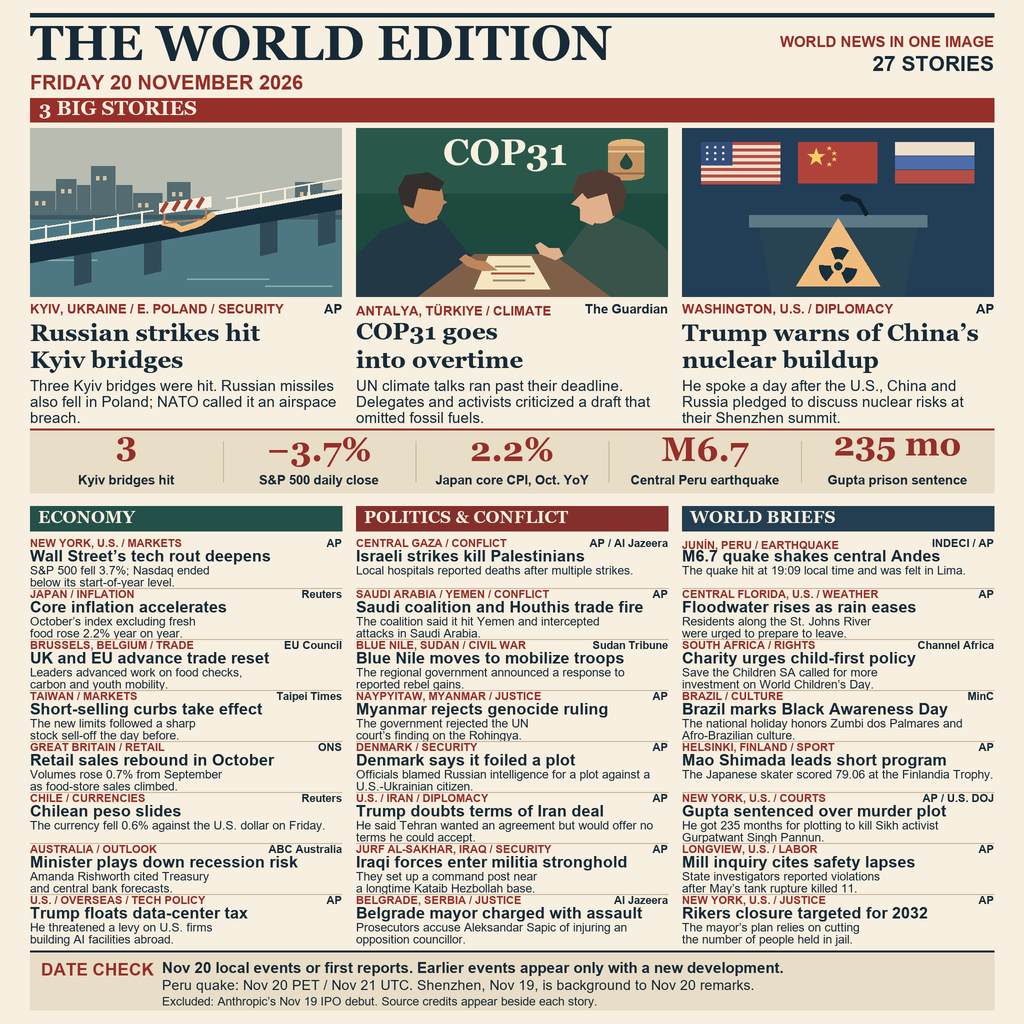
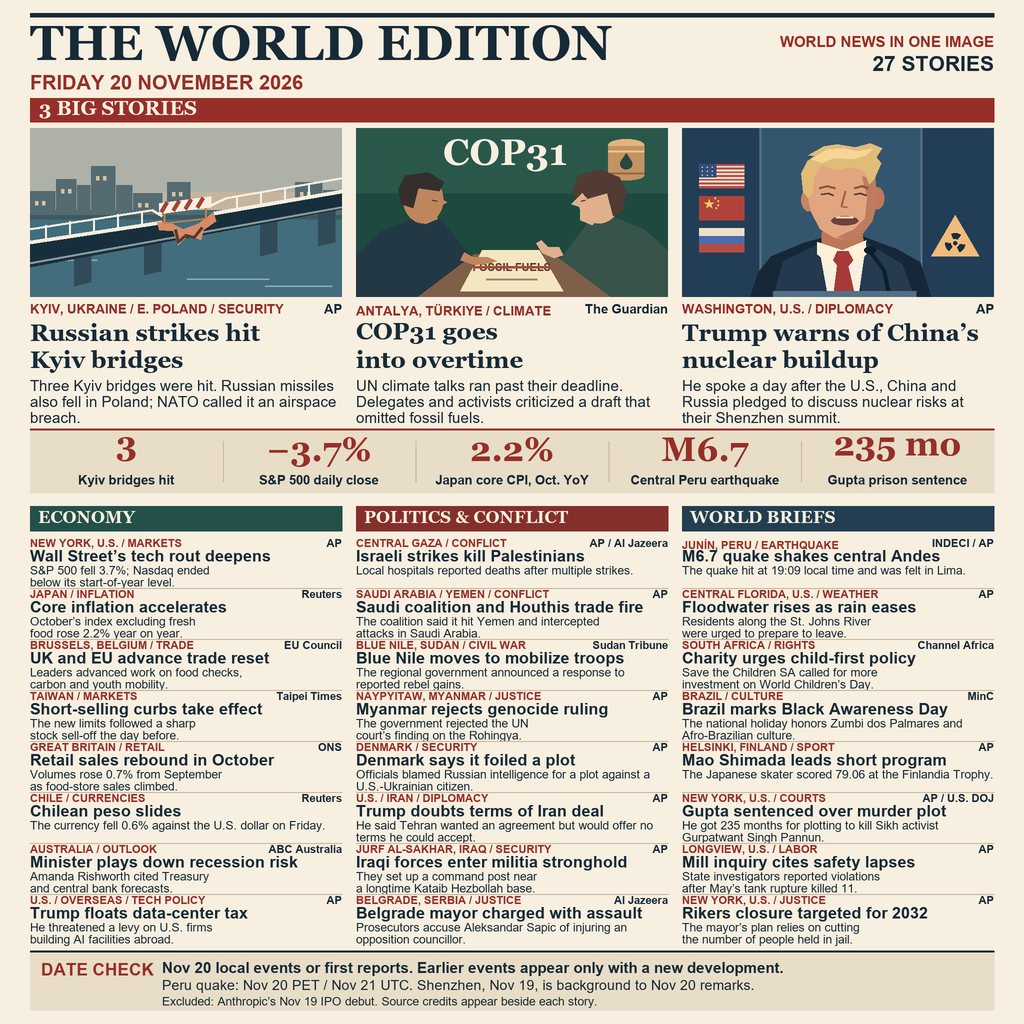
Restore clear subjects to the Ver.5 news artwork

diff --git a/render_v5.py b/render_v5.py
@@ -13,8 +13,9 @@ HONEY = "#f0bc7d"
 
 def bridge_scene(art):
     """An editorial river crossing with damage and a closed lane."""
-    art.rect((0, 0, 312, 169), "#b9bcb1")
-    art.rect((0, 82, 312, 169), "#4d7883")
+    art.rect((0, 0, 312, 169), "#aeb1a7")
+    art.rect((0, 64, 312, 88), "#c5b49e")
+    art.rect((0, 82, 312, 169), "#416d7c")
     for left, top, width in ((0, 63, 25), (26, 51, 20), (47, 57, 13),
                              (61, 38, 24), (86, 57, 16), (103, 65, 29),
                              (137, 54, 23), (265, 54, 27), (293, 62, 19)):
@@ -29,15 +30,18 @@ def bridge_scene(art):
     # not the collapse of a span. The localized break in the edge is editorial.
     for x, y in ((44, 119), (114, 108), (230, 89), (288, 79)):
         art.polygon((x,y,x+17,y-3,x+17,y+35,x,y+39), "#304b57")
-    art.polygon((0,115, 133,95, 153,100, 171,94, 182,86, 312,64, 312,81, 0,135), NIGHT)
+    art.polygon((0,115, 133,95, 153,103, 171,97, 182,86, 312,64, 312,81, 0,139), NIGHT)
+    art.line((0,135,312,79), "#8a9a98", 2.5)
     art.line((0,114, 132,94), PAPER, 4)
     art.line((184,85, 312,63), PAPER, 4)
-    art.line((132,94, 145,97, 151,101, 164,97, 171,94, 178,89, 184,85), HONEY, 6)
+    art.polygon((127,94, 139,94, 153,101, 169,95, 183,84, 186,93,
+                 173,102, 171,112, 158,107, 148,117, 143,103, 129,102), "#d68d66")
+    art.line((145,101, 148,114, 156,107, 164,109, 172,99), "#573a31", 3)
     for x, y in ((16, 110), (40, 106), (64, 103), (88, 99), (112, 96),
                  (207, 81), (231, 77), (255, 73), (279, 69)):
         art.line((x,y,x,y-13), PAPER, 2)
-    art.line((0,101, 123,82), PAPER, 2)
-    art.line((196,70, 312,50), PAPER, 2)
+    art.line((0,101, 122,82, 132,88), PAPER, 2.5)
+    art.line((177,79, 196,70, 312,50), PAPER, 2.5)
     # A single striped road barricade cues the reported traffic disruption.
     art.line((134,80,134,95,176,90,176,73), "#c27f4d", 2)
     art.polygon((129,75,181,68,181,79,129,86), PAPER)
@@ -68,12 +72,14 @@ def climate_scene(art):
     art.polygon((223,73, 216,64, 222,47, 244,41, 263,49, 270,62, 267,81, 257,88, 251,65), "#523b33")
     art.polygon((226,65, 215,76, 224,79, 224,92, 236,97, 245,87), "#dfb08b")
     art.polygon((60, 170, 118, 126, 197, 126, 256, 170), "#805f49")
-    art.polygon((118,161, 132,128, 175,128, 194,161), "#f5e6c2")
-    art.line((139,138,174,138), "#9a8c70", 2)
-    art.line((135,145,178,145), "#ac4d39", 2)
-    art.line((137,152,169,152), "#9a8c70", 2)
-    art.polygon((109,126, 120,132, 129,133, 141,142, 127,143, 111,138, 103,131), "#bf865e")
-    art.polygon((203,120, 193,120, 184,114, 179,117, 184,126, 199,132, 207,128), "#dfb08b")
+    art.polygon((104,163, 126,122, 183,122, 207,163), "#f5e6c2")
+    art.text(156, 139, "FOSSIL FUELS", 11, "#543f32", anchor="mm")
+    art.line((117,139,195,139), "#aa4839", 2.5)
+    art.line((130,151,181,151), "#9a8c70", 2)
+    art.polygon((108,124, 117,129, 132,129, 141,133, 133,135, 119,137, 104,132), "#bf865e")
+    art.polygon((203,119, 192,119, 185,112, 180,115, 186,125, 198,130, 207,127), "#dfb08b")
+    art.line((76,72,81,73), "#4a3432", 1.5)
+    art.line((225,73,229,72), "#4a3432", 1.5)
 
 
 def star(art, x, y, radius):
@@ -86,32 +92,66 @@ def star(art, x, y, radius):
 
 
 def nuclear_scene(art):
-    """The three countries behind a single warning at a press lectern."""
+    """An editorial portrait of Trump during the White House briefing."""
     art.rect((0, 0, 312, 169), "#223e56")
+    art.rect((77, 0, 239, 169), "#34556e")
+    art.line((78, 0, 78, 169), "#54738a", 2)
+    art.line((239, 0, 239, 169), "#54738a", 2)
+    # Trilateral context sits beside the portrait, outside the briefing scene.
     for stripe in range(13):
-        top = 14 + stripe * 42 / 13
-        bottom = 14 + (stripe+1) * 42 / 13
-        art.rect((19, top, 98, bottom), "#b44d45" if stripe % 2 == 0 else "#efdfca")
-    art.rect((19, 14, 50, 37), "#334e7a")
-    for y in (19, 25, 31):
-        for x in (25, 33, 41):
-            art.oval((x-1,y-1,x+1,y+1), PAPER)
-    art.rect((116,14,195,55), "#af433a")
-    star(art, 134, 29, 9)
-    for x, y in ((147,20), (152,25), (152,31), (147,36)):
-        star(art, x, y, 2.2)
+        top = 36 + stripe * 24 / 13
+        bottom = 36 + (stripe+1) * 24 / 13
+        art.rect((17, top, 62, bottom), "#b44d45" if stripe % 2 == 0 else "#efdfca")
+    art.rect((17, 36, 34, 49), "#334e7a")
+    for y in (39, 43, 47):
+        for x in (20, 25, 30):
+            art.oval((x-.65,y-.65,x+.65,y+.65), PAPER)
+    art.rect((17,68,62,92), "#af433a")
+    star(art, 27, 76, 5)
+    for x, y in ((33,70), (36,73), (36,77), (34,80)):
+        star(art, x, y, 1.1)
     for index, color in enumerate(("#efdfca", "#4d6caa", "#b44d45")):
-        art.rect((213,14+index*14,292,27+index*14), color)
-    # One oversize warning symbol supplies the focus. The microphone cues the briefing.
-    art.polygon((75,90, 237,90, 222,169, 90,169), "#284354")
-    art.rect((67,87,245,99), "#5d7986")
-    art.line((185,87, 177,73, 166,69), "#101f2b", 5)
-    art.oval((158,66,171,73), "#101f2b")
-    art.polygon((156,90,198,158,114,158), HONEY)
+        art.rect((17,100+index*8,62,108+index*8), color)
+
+    # Frontal, waist-up speech composition. The hair silhouette, face and red tie
+    # carry the likeness even when the panel is reduced to thumbnail size.
+    art.polygon((68,169, 76,144, 89,128, 123,114, 150,107, 180,108,
+                 215,121, 238,134, 249,169), "#162737")
+    art.polygon((91,169, 101,133, 136,116, 149,127, 145,169), "#24394e")
+    art.polygon((232,169, 220,136, 185,115, 174,128, 181,169), "#263a50")
+    art.polygon((140,99, 139,121, 160,135, 182,118, 179,98), "#bd7856")
+    art.polygon((136,114, 160,122, 184,112, 176,169, 146,169), PAPER)
+    art.polygon((155,123, 166,123, 171,132, 166,138, 173,169, 151,169, 155,137, 151,132), "#a73938")
+    art.polygon((135,114, 154,122, 148,137, 135,126), "#fff1d6")
+    art.polygon((183,113, 168,122, 174,137, 185,125), "#fff1d6")
+
+    art.oval((119,60,134,83), "#c48761")
+    art.oval((188,59,202,81), "#bd7959")
+    art.polygon((126,45, 135,29, 158,26, 184,32, 193,50, 195,74, 190,93,
+                 181,105, 165,112, 151,109, 138,101, 129,84, 125,65), "#e1a580")
+    art.polygon((180,48, 193,51, 195,74, 190,93, 181,105, 165,112,
+                 155,109, 172,101, 183,90, 185,69), "#be7c5e")
+    art.polygon((121,64, 119,45, 125,33, 132,28, 126,27, 142,18, 155,16,
+                 173,19, 188,15, 200,20, 194,29, 199,35, 192,51, 187,56,
+                 182,43, 168,39, 155,42, 139,37, 132,49, 130,66, 126,70), "#e0bc77")
+    art.polygon((129,31, 145,21, 161,20, 175,23, 191,20, 184,27, 171,31,
+                 151,30, 140,35), "#f6d597")
+    art.line((137,60,145,58,153,60), "#865741", 2.5)
+    art.line((172,60,180,58,186,60), "#865741", 2.5)
+    art.line((139,66,146,65,151,67), "#593d38", 2)
+    art.line((172,66,178,65,184,67), "#593d38", 2)
+    art.line((163,63,159,78,165,79), "#a3634e", 2)
+    art.oval((149,88,176,97), "#6c413d")
+    art.line((154,89,171,89), "#f1d7b8", 2)
+
+    art.line((207,166,202,142,188,123), "#0b202d", 4)
+    art.oval((182,118,194,126), "#0b202d")
+    art.rect((91,163,234,169), "#527184")
+    art.polygon((273,87,297,128,249,128), HONEY)
     for start in (0, 120, 240):
-        art.draw.pieslice(pixels((137,119,175,157)), start+8, start+64, fill=NIGHT)
-    art.oval((149,131,163,145), HONEY)
-    art.oval((152,134,160,142), NIGHT)
+        art.draw.pieslice(pixels((263,105,283,125)), start+8, start+64, fill=NIGHT)
+    art.oval((269,111,277,119), HONEY)
+    art.oval((271,113,275,117), NIGHT)
 
 
 if __name__ == "__main__":

diff --git a/README.md b/README.md
@@ -28,7 +28,7 @@ Get-FileHash output/entry.png -Algorithm SHA256
 
 ### Ver.5の挿絵
 
-キーウは被害と一時的な通行制限が報じられた橋をもとに、川と街並みを背景にした編集イラストにした。描かれた傷やバリケードの配置は模式的な表現。COP31は化石燃料を巡る合意案を挟んだ交渉の情景、核戦力報道は米中ロの国旗と核リスクの警告標識を組み合わせた図として描いた。紙面本文は19日の深圳会談と20日の発言を区別している。 [キーウ・通行情報](https://www.pravda.com.ua/eng/news/2026/11/20/8063728/index.amp) · [COP31・The Guardian](https://www.theguardian.com/environment/2026/nov/20/cop31-talks-overtime-fossil-fuels-vanish-from-draft-deal) · [深圳共同宣言](https://www.fmprc.gov.cn/eng/xw/zyxw/202611/t20261119_12063224.html) · [20日の会見・AP](https://apnews.com/article/286391edaacc7e8544dc0dc023e253fb)
+キーウでは、報道で確認した橋の損傷と一時的な通行制限をもとに、川と街並みを背にした橋を大きく描いた。損傷やバリケードの形状は編集上の表現。COP31では、交渉に臨む代表者を大きく置き、合意案から化石燃料への言及が外れたことを紙面上の取り消し線で表した。核戦力報道では、会見中のトランプ氏の顔と上半身を中心に描き、米中ロの国旗と警告標識は記事の背景を示す要素として左右に配置した。本文では19日の深圳会談と20日の発言を区別した。 [キーウ・通行情報](https://www.pravda.com.ua/eng/news/2026/11/20/8063728/index.amp) · [COP31・The Guardian](https://www.theguardian.com/environment/2026/nov/20/cop31-talks-overtime-fossil-fuels-vanish-from-draft-deal) · [深圳共同宣言](https://www.fmprc.gov.cn/eng/xw/zyxw/202611/t20261119_12063224.html) · [20日の会見・AP](https://apnews.com/article/286391edaacc7e8544dc0dc023e253fb)
 
 ### 旧版の再描画
 
